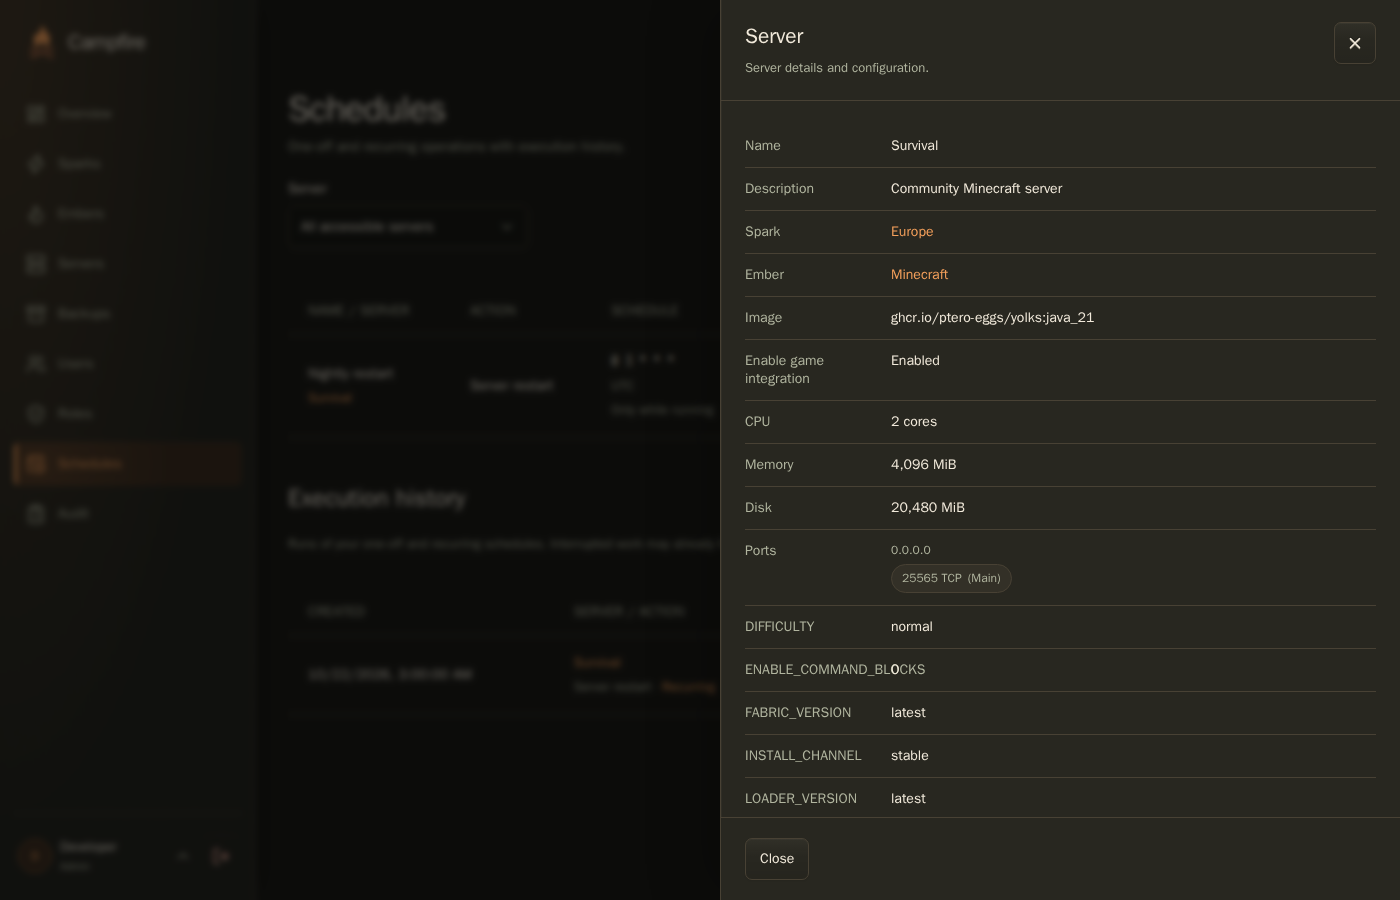
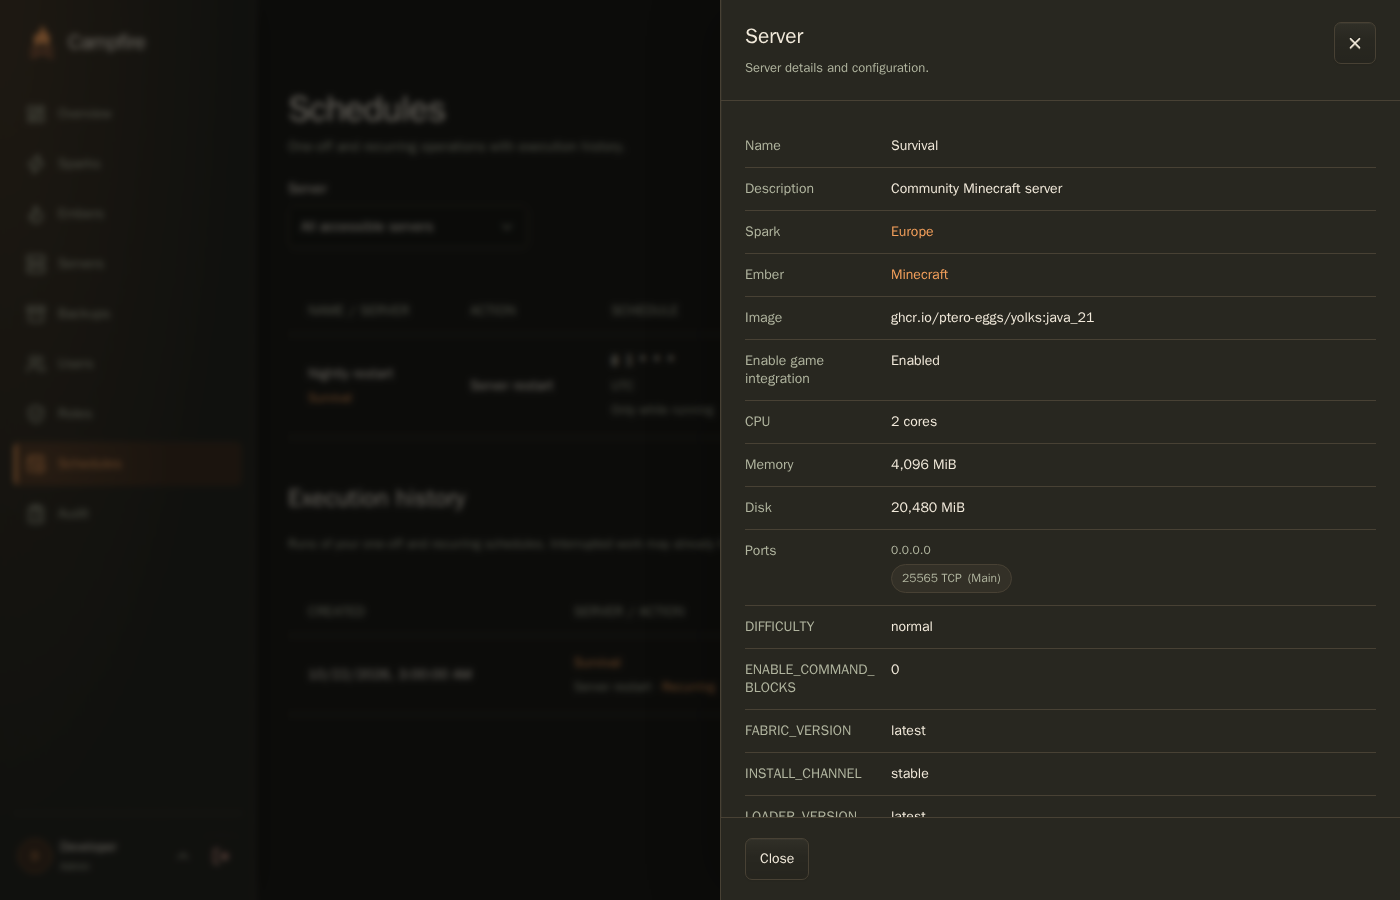
Fix drawer detail wrapping and status alignment

Changed region(s): [[0.5221, 0.7467, 0.6757, 0.9022]]

diff --git a/e2e/ui.spec.ts b/e2e/ui.spec.ts
@@ -547,6 +547,16 @@ test("resource inspection keeps the current page and supports nested drawers", a
   await inspectServer(page);
   await expect(page).toHaveURL(/#schedules$/);
   await screenshot(page, "server-inspection.png");
+  const variable = page
+    .getByRole("dialog")
+    .locator(".details-list > div")
+    .filter({ has: page.getByText("ENABLE_COMMAND_BLOCKS", { exact: true }) });
+  await expect(variable).toHaveScreenshot("server-inspection-long-label.png");
+  await page.setViewportSize({ width: 390, height: 844 });
+  await expect(variable).toHaveScreenshot(
+    "server-inspection-long-label-mobile.png",
+  );
+  await page.setViewportSize({ width: 1400, height: 900 });
   await page
     .getByRole("dialog")
     .getByRole("link", { name: "Europe", exact: true })
@@ -567,6 +577,37 @@ test("resource inspection keeps the current page and supports nested drawers", a
     .click();
   await expect(page.getByRole("dialog")).toHaveCount(0);
   await expect(page).toHaveURL(/#schedules$/);
+
+  for (const [screen, heading, resource] of [
+    ["servers", "Servers", "Survival"],
+    ["sparks", "Sparks", "Europe"],
+  ] as const) {
+    await openScreen(page, screen, heading);
+    await page
+      .getByRole("button", {
+        name: `View details for ${resource}`,
+        exact: true,
+      })
+      .click();
+    const dialog = page.getByRole("dialog");
+    await expect(
+      dialog.getByRole("heading", { level: 2, name: new RegExp(resource) }),
+    ).toBeVisible();
+    await expect(page.locator('[aria-busy="true"]')).toHaveCount(0);
+    await expect(dialog.locator(".drawer-heading")).toHaveScreenshot(
+      `${screen}-drawer-heading.png`,
+    );
+    await page.setViewportSize({ width: 390, height: 844 });
+    await expect(dialog.locator(".drawer-heading")).toHaveScreenshot(
+      `${screen}-drawer-heading-mobile.png`,
+    );
+    await dialog
+      .getByRole("button", { name: "Close", exact: true })
+      .first()
+      .click();
+    await expect(dialog).toHaveCount(0);
+    await expect(page).toHaveURL(new RegExp(`#${screen}$`));
+  }
 });
 
 test("schedule history excludes direct server operations", async ({ page }) => {

diff --git a/web/src/components/layout/drawer.css b/web/src/components/layout/drawer.css
@@ -73,8 +73,16 @@
 .drawer-title {
   display: flex;
   flex-wrap: wrap;
-  align-items: center;
+  align-items: baseline;
   gap: 12px;
+
+  & .status-pill {
+    align-items: baseline;
+  }
+
+  & .status-pill::before {
+    transform: translateY(calc((var(--status-indicator-size) - 1cap) / 2));
+  }
 }
 .drawer-heading h2 {
   margin: 0;

diff --git a/web/src/components/layout/details-list.css b/web/src/components/layout/details-list.css
@@ -10,6 +10,12 @@
     font-size: 14px;
   }
 
+  & dt,
+  & dd {
+    min-width: 0;
+    overflow-wrap: anywhere;
+  }
+
   & dt {
     color: var(--muted);
   }
@@ -17,7 +23,6 @@
   & dd {
     margin: 0;
     white-space: pre-wrap;
-    overflow-wrap: anywhere;
   }
 
   @media (max-width: 480px) {
